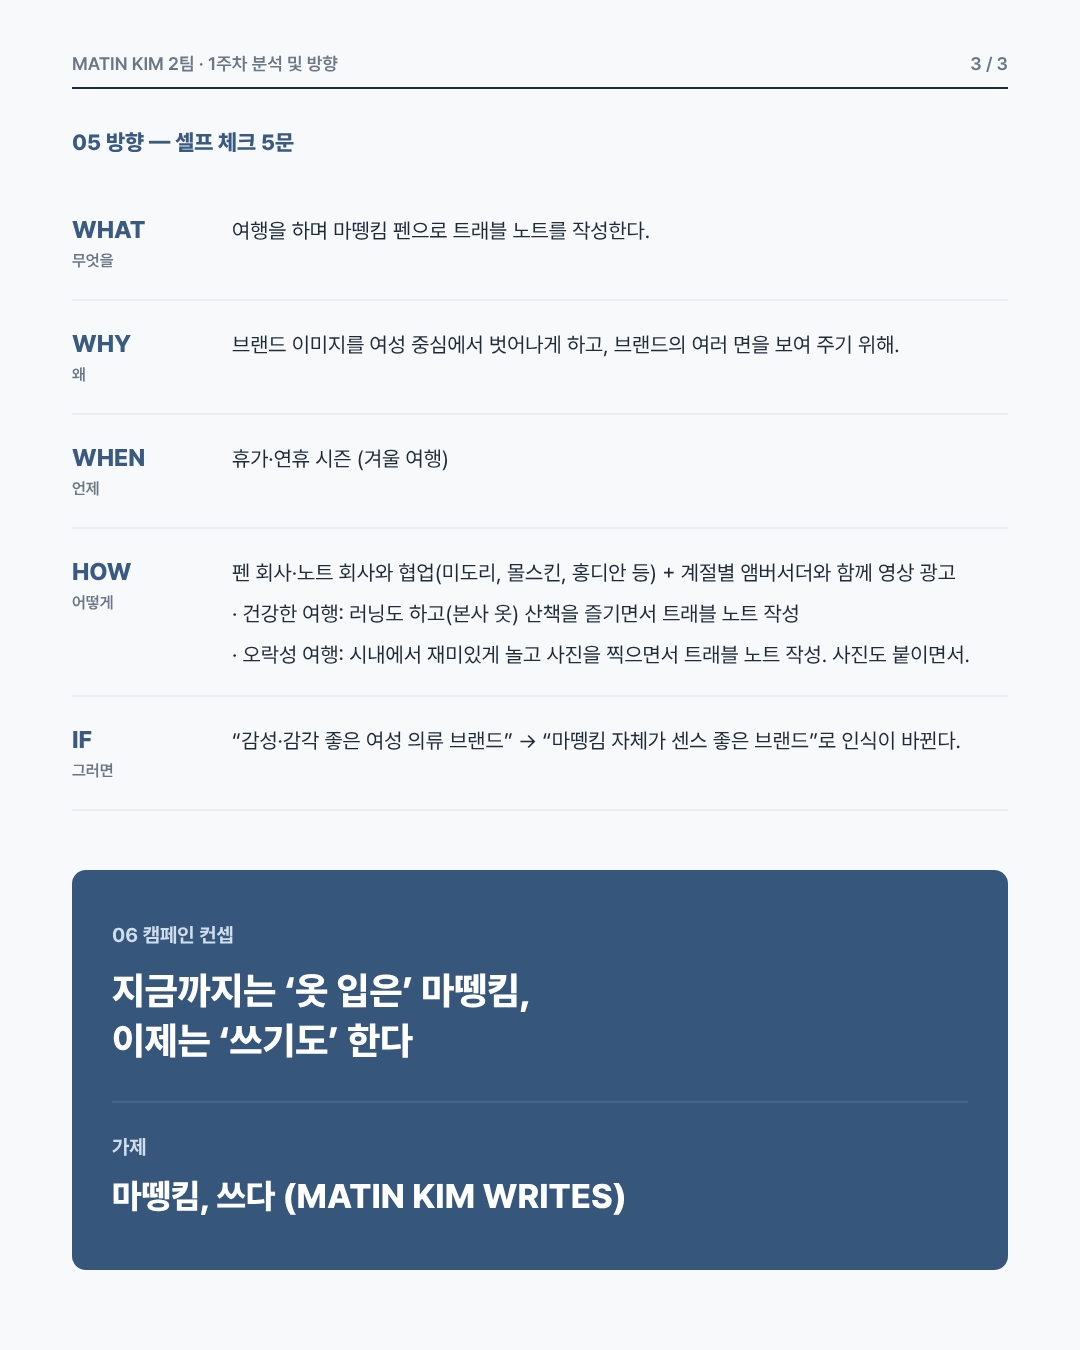
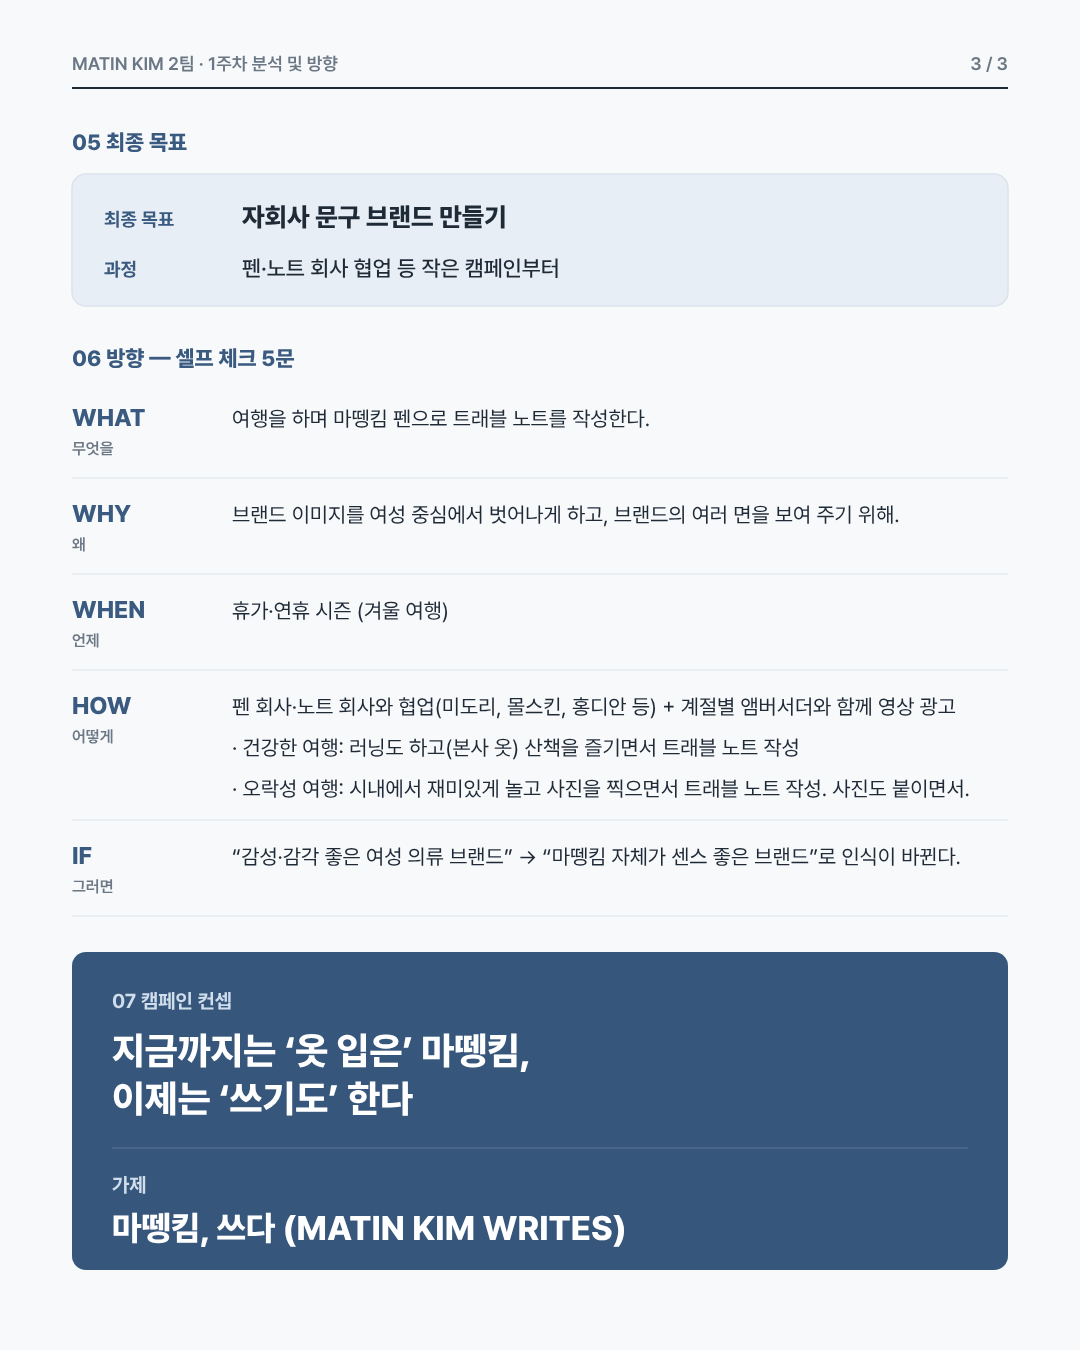
마뗑킴 1주차 3장에 최종 목표 칸 추가 (#210)
* 마뗑킴 1주차 3장 재배열: 1장 빈칸을 줄이려고 페르소나를 1장으로 옮기고 3장 모두 여백에 맞게 다시 배치

Claude-Session: https://claude.ai/code/session_01VwLjVAnSisNZrM5Tc54zJy

* 마뗑킴 1주차 페르소나에 직장 2년 차·꾸미는 것에 관심이 많음을 따로 줄로 넣음

Claude-Session: https://claude.ai/code/session_01VwLjVAnSisNZrM5Tc54zJy

* 마뗑킴 1주차 페르소나에 '혼자 여행을 좋아함' 줄을 넣음

Claude-Session: https://claude.ai/code/session_01VwLjVAnSisNZrM5Tc54zJy

* 마뗑킴 1주차 SWOT 기회에 '국내외 여행객이 계속 증가하고 있음'을 넣음

Claude-Session: https://claude.ai/code/session_01VwLjVAnSisNZrM5Tc54zJy

* 마뗑킴 1주차 SWOT 위협에서 '탈패션' 줄을 뺌

Claude-Session: https://claude.ai/code/session_01VwLjVAnSisNZrM5Tc54zJy

* 마뗑킴 1주차 3장 색을 칙칙한 베이지·검정에서 차분한 블루그레이로 바꿈

Claude-Session: https://claude.ai/code/session_01VwLjVAnSisNZrM5Tc54zJy

* 마뗑킴 캠페인 최종 목표(자회사 문구 브랜드, 협업은 작은 캠페인)를 기억해 둠

Claude-Session: https://claude.ai/code/session_01VwLjVAnSisNZrM5Tc54zJy

* 마뗑킴 1주차 3장 맨 위에 최종 목표(자회사 문구 브랜드)·과정 칸을 넣음

Claude-Session: https://claude.ai/code/session_01VwLjVAnSisNZrM5Tc54zJy

---------

diff --git a/개인공부/마케팅교육/마뗑킴_1주차_제출.md b/개인공부/마케팅교육/마뗑킴_1주차_제출.md
@@ -40,7 +40,11 @@
 
 ---
 
-## 3장. 방향 — 셀프 체크 5문 + 컨셉
+## 3장. 최종 목표 + 방향 — 셀프 체크 5문 + 컨셉
+
+| 최종 목표 | 자회사 문구 브랜드 만들기 |
+|---|---|
+| 과정 | 펜·노트 회사 협업 등 작은 캠페인부터 |
 
 | 질문 | 한 줄 답 |
 |---|---|
